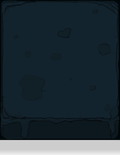
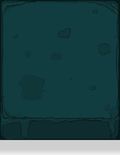
更新 榴弹技能时间。优化地块颜色。

diff --git a/Code/Prometheus/Assets/Scripts/UI/UIExtend.cs b/Code/Prometheus/Assets/Scripts/UI/UIExtend.cs
@@ -107,6 +107,7 @@ public static class UIExtend {
     {
         string name = RuleBox.GetBox(row, col);
         image.sprite = AtlasCore.Instance.GetSpriteFormAtlas("Stage", name);
+        image.color = RuleBox.GetBoxColor();
         image.SetNativeSize();
     }
 
@@ -114,6 +115,7 @@ public static class UIExtend {
     {
         string name = RuleBox.GetBlock(row, col);
         image.sprite = AtlasCore.Instance.GetSpriteFormAtlas("Stage", name);
+        image.color = RuleBox.GetBlockColor();
         image.SetNativeSize();
     }
 
@@ -121,6 +123,7 @@ public static class UIExtend {
     {
         string name = RuleBox.GetUnExplored(row, col);
         image.sprite = AtlasCore.Instance.GetSpriteFormAtlas("Stage", name);
+        image.color = RuleBox.GetUnExploredColor();
         image.SetNativeSize();
     }
 

diff --git a/Code/Prometheus/Assets/Art/Fx/Scripts/Rule/RuleBox.cs b/Code/Prometheus/Assets/Art/Fx/Scripts/Rule/RuleBox.cs
@@ -79,4 +79,18 @@ public class RuleBox {
 	
 	}
 
+	public static Color GetBoxColor() {
+		float random_color = Random.Range(0.7f, 0.8f);
+        return new Color(random_color,random_color,random_color,1);
+	}
+
+	public static Color GetBlockColor() {
+		float random_color = Random.Range(0.7f, 1);
+        return new Color(random_color,random_color,random_color,1);
+	}
+	public static Color GetUnExploredColor() {
+		float random_color = Random.Range(0.7f, 0.8f);
+        return new Color(random_color,random_color,random_color,1);
+	}
+
 }
